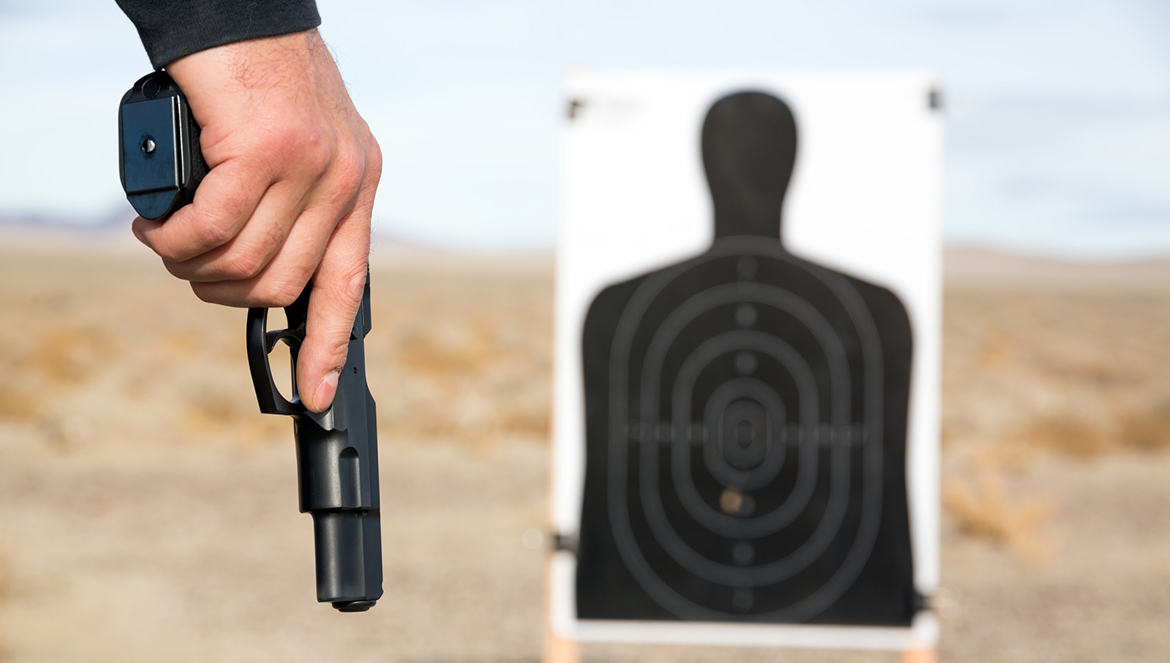
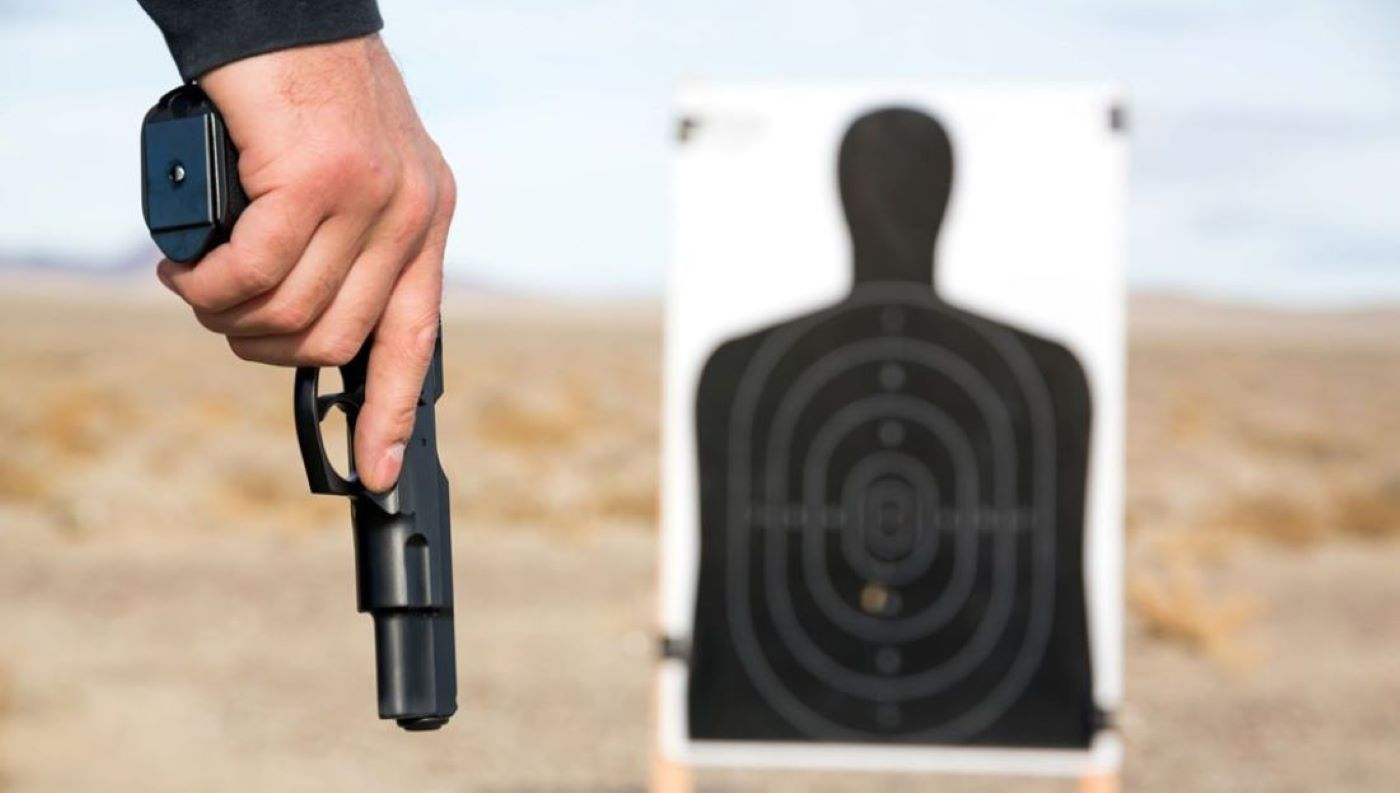
modified:   R.jpg 	modified:   gungrain.jpg 	modified:   index.html 	modified:   shooting.jpg 	new file:   shootingeqp.jpg 	modified:   style.css

diff --git a/index.html b/index.html
@@ -3,6 +3,7 @@
     <head>
         <title class="tittle">Concealed Carry Licensing</title>
         <link rel="stylesheet" href="style.css">
+        <link rel="stylesheet" href="https://cdn.jsdelivr.net/npm/bootstrap@4.0.0/dist/css/bootstrap.min.css" integrity="sha384-Gn5384xqQ1aoWXA+058RXPxPg6fy4IWvTNh0E263XmFcJlSAwiGgFAW/dAiS6JXm" crossorigin="anonymous">
         <meta name="viewport" content="width =device-width, initial-scale =1"> 
     </head>
     <body>
@@ -38,9 +39,45 @@
             <h1>Why Choose me?</h1>
         </div>
         <div class="about-box">
-            <div class="abouts">
-                <h1>ABOUT ME</h1>
-            </div>
+           
+            <div id="carouselExampleIndicators" class="carousel slide" data-ride="carousel">
+                <ol class="carousel-indicators">
+                  <li data-target="#carouselExampleIndicators" data-slide-to="0" class="active"></li>
+                  <li data-target="#carouselExampleIndicators" data-slide-to="1"></li>
+                  <li data-target="#carouselExampleIndicators" data-slide-to="2"></li>
+                </ol>
+                <div class="carousel-inner">
+                  <div class="carousel-item active">
+                    <img class="d-block w-100" src="shootingeqp.jpg" alt="First slide">
+                       <div class="carousel-caption d-none d-md-block">
+                        <h5>Years of Experience</h5>
+                        <p>5+ years of experience as an Instructor</p>
+                       </div>
+                  </div>
+                  <div class="carousel-item">
+                    <img class="d-block w-100" src="R.jpg" alt="Second slide">
+                    <div class="carousel-caption d-none d-md-block">
+                        <h5 class="spanish">Spanish Speaking</h5>
+                        <p class="spanishp">I can do all the intruction 100% in spanish</p>
+                       </div>
+                  </div>
+                  <div class="carousel-item">
+                    <img class="d-block w-100" src="shooting.jpg" alt="third slide">
+                    <div class="carousel-caption d-none d-md-block">
+                        <h5>Recognized by the NRA</h5>
+                        <p>I am a Natioanlly recognized instructor for the NRA</p>
+                       </div>
+                  </div>
+                </div>
+                <a class="carousel-control-prev" href="#carouselExampleIndicators" role="button" data-slide="prev">
+                  <span class="carousel-control-prev-icon" aria-hidden="true"></span>
+                  <span class="sr-only">Previous</span>
+                </a>
+                <a class="carousel-control-next" href="#carouselExampleIndicators" role="button" data-slide="next">
+                  <span class="carousel-control-next-icon" aria-hidden="true"></span>
+                  <span class="sr-only">Next</span>
+                </a>
+              </div>
     </section>
 
     <script>
@@ -60,5 +97,8 @@
             }
         }
     </script>
+    <script src="https://code.jquery.com/jquery-3.2.1.slim.min.js" integrity="sha384-KJ3o2DKtIkvYIK3UENzmM7KCkRr/rE9/Qpg6aAZGJwFDMVNA/GpGFF93hXpG5KkN" crossorigin="anonymous"></script>
+    <script src="https://cdn.jsdelivr.net/npm/popper.js@1.12.9/dist/umd/popper.min.js" integrity="sha384-ApNbgh9B+Y1QKtv3Rn7W3mgPxhU9K/ScQsAP7hUibX39j7fakFPskvXusvfa0b4Q" crossorigin="anonymous"></script>
+    <script src="https://cdn.jsdelivr.net/npm/bootstrap@4.0.0/dist/js/bootstrap.min.js" integrity="sha384-JZR6Spejh4U02d8jOt6vLEHfe/JQGiRRSQQxSfFWpi1MquVdAyjUar5+76PVCmYl" crossorigin="anonymous"></script>
     </body>
 </html>

diff --git a/style.css b/style.css
@@ -143,7 +143,22 @@ nav ul li a{
     text-align: center;
 }
 .abouts{
-    flex-basis: 50%;
+    margin: auto;
+    font-size: 20px;    
+    color: rgb(5, 5, 5);
+    font-weight: bold;
+    position: relative;
+    z-index: 1;
+    display: inline-block;
 }
-
+.spanish{
+    color: rgb(252, 186, 4);
+    font-size: 50px;
+    font-weight: bold;
+}
+.spanishp{
+    color: #000;
+    font-size: 20px;
+    font-weight: bold;
+}
 
